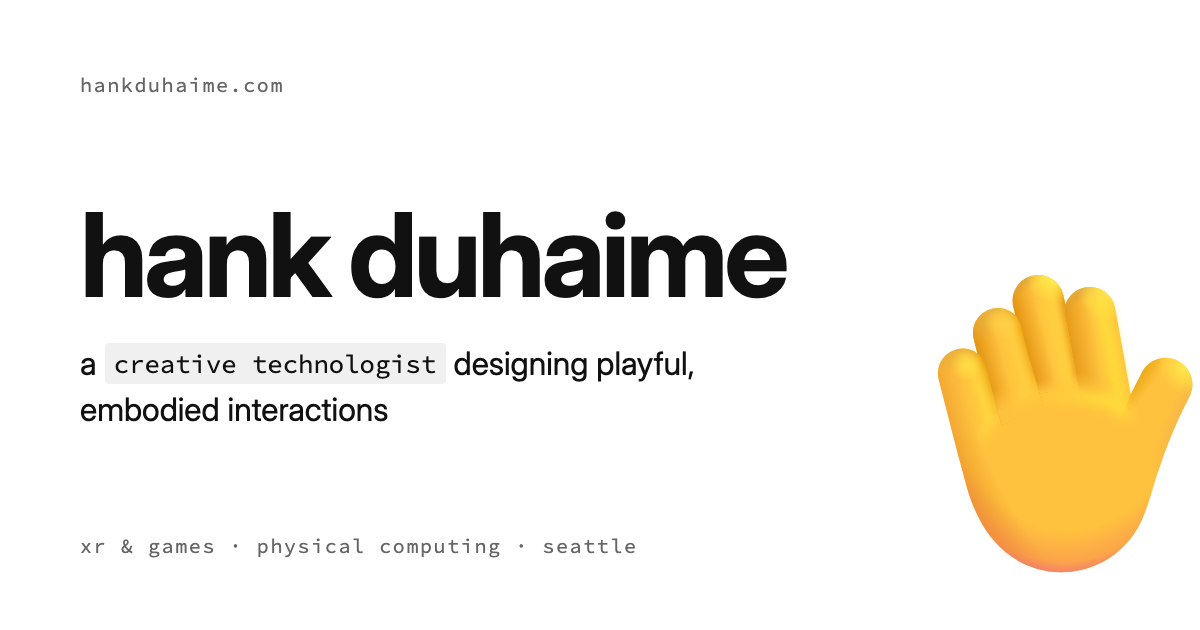
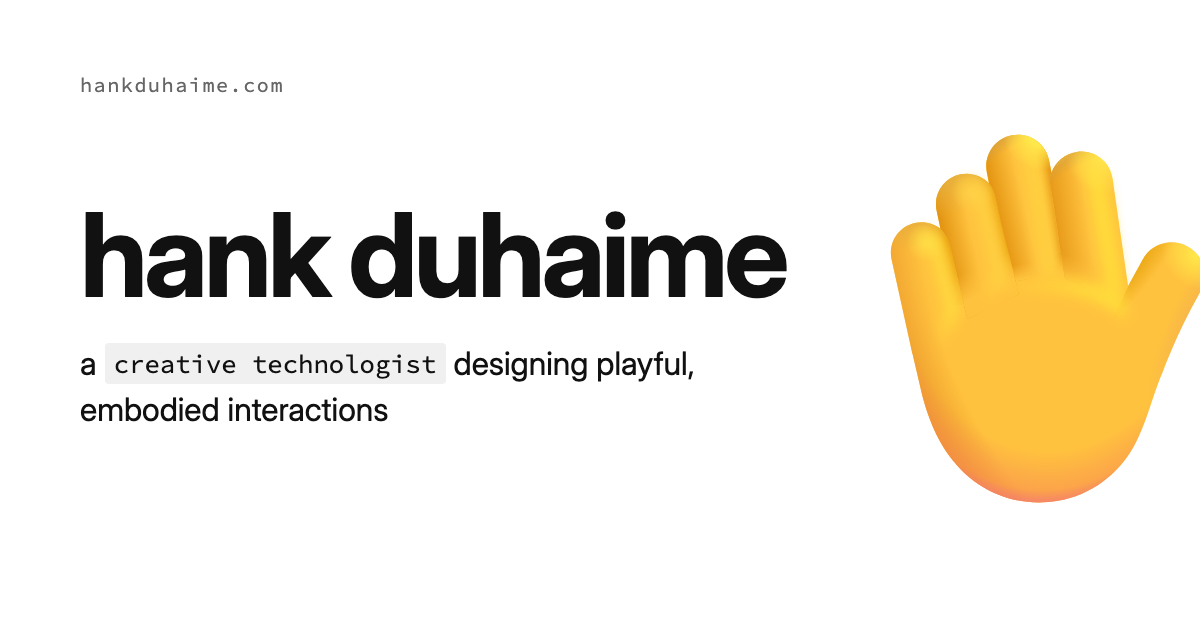
Updates

diff --git a/og-card/index.html b/og-card/index.html
@@ -1,5 +1,5 @@
-<!DOCTYPE html><html lang="en"> <head><meta charset="UTF-8"><title>OG card — Hank Duhaime</title><meta name="robots" content="noindex"><link rel="preconnect" href="https://fonts.googleapis.com"><link rel="preconnect" href="https://fonts.gstatic.com" crossorigin><link href="https://fonts.googleapis.com/css2?family=Inter:ital,opsz,wght@0,14..32,400;0,14..32,500;0,14..32,600;0,14..32,700&family=Source+Code+Pro:wght@400;500&display=swap" rel="stylesheet"><style>html,body{margin:0;padding:0;background:#fff}.og-card{position:relative;width:1200px;height:630px;box-sizing:border-box;padding:72px 80px;background:#fff;color:#111;font-family:Inter,system-ui,sans-serif;display:flex;flex-direction:column;justify-content:space-between;overflow:hidden}.og-domain,.og-meta{font-family:Source Code Pro,monospace;font-size:20px;letter-spacing:.08em;color:#666;margin:0}.og-body{max-width:760px}.og-name{font-size:116px;font-weight:700;letter-spacing:-.035em;line-height:1;margin:0 0 28px}.og-tagline{font-size:32px;font-weight:400;line-height:1.45;color:#111;margin:0;max-width:700px}.og-code{font-family:Source Code Pro,monospace;font-size:.8em;background:#f0f0f0;border-radius:4px;padding:.18em .36em;margin-block:-.18em;vertical-align:.08em}.og-hand{position:absolute;right:-40px;bottom:40px;width:340px;height:340px;transform:rotate(-12deg)}
+<!DOCTYPE html><html lang="en"> <head><meta charset="UTF-8"><title>OG card — Hank Duhaime</title><meta name="robots" content="noindex"><link rel="preconnect" href="https://fonts.googleapis.com"><link rel="preconnect" href="https://fonts.gstatic.com" crossorigin><link href="https://fonts.googleapis.com/css2?family=Inter:ital,opsz,wght@0,14..32,400;0,14..32,500;0,14..32,600;0,14..32,700&family=Source+Code+Pro:wght@400;500&display=swap" rel="stylesheet"><style>html,body{margin:0;padding:0;background:#fff}.og-card{position:relative;width:1200px;height:630px;box-sizing:border-box;padding:72px 80px;background:#fff;color:#111;font-family:Inter,system-ui,sans-serif;display:flex;flex-direction:column;justify-content:center;overflow:hidden}.og-domain{position:absolute;top:72px;left:80px;font-family:Source Code Pro,monospace;font-size:20px;letter-spacing:.08em;color:#666;margin:0}.og-body{max-width:760px}.og-name{font-size:116px;font-weight:700;letter-spacing:-.035em;line-height:1;margin:0 0 28px}.og-tagline{font-size:32px;font-weight:400;line-height:1.45;color:#111;margin:0;max-width:700px}.og-code{font-family:Source Code Pro,monospace;font-size:.8em;background:#f0f0f0;border-radius:4px;padding:.18em .36em;margin-block:-.18em;vertical-align:.08em}.og-hand{position:absolute;right:-62px;top:50%;width:420px;height:420px;transform:translateY(-50%) rotate(-10deg)}
 </style></head> <body> <div class="og-card"> <p class="og-domain">hankduhaime.com</p> <div class="og-body"> <h1 class="og-name">hank duhaime</h1> <p class="og-tagline">
 a <code class="og-code">creative technologist</code> designing playful,
         embodied interactions
-</p> </div> <img class="og-hand" src="/ui/hand-raised.svg" alt=""> <p class="og-meta">xr &amp; games · physical computing · seattle</p> </div> </body></html>
+</p> </div> <img class="og-hand" src="/ui/hand-raised.svg" alt=""> </div> </body></html>
